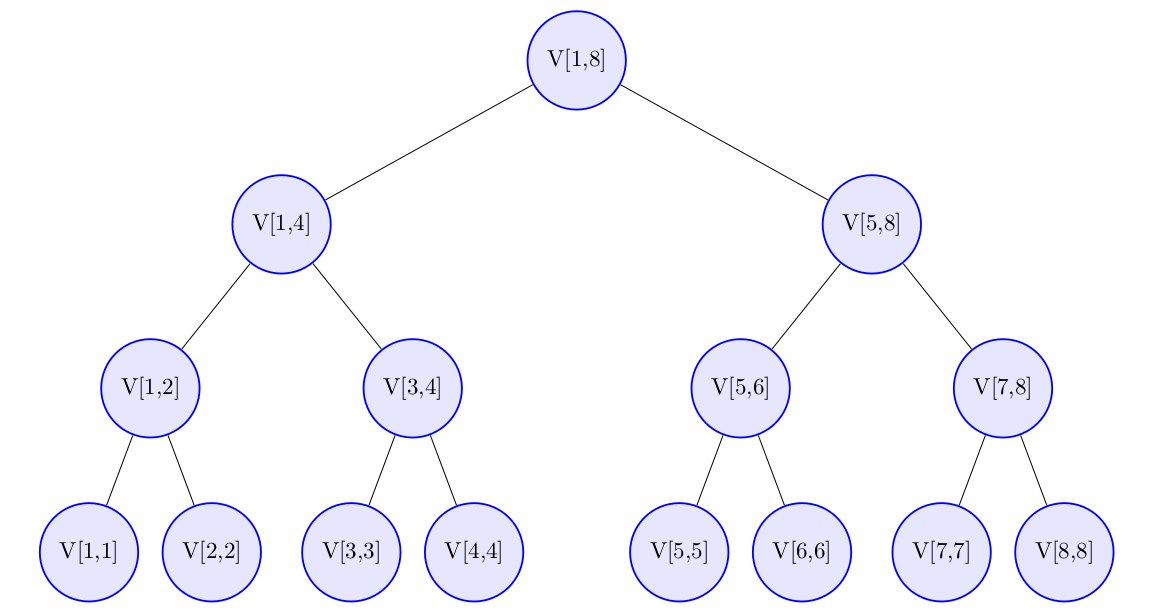
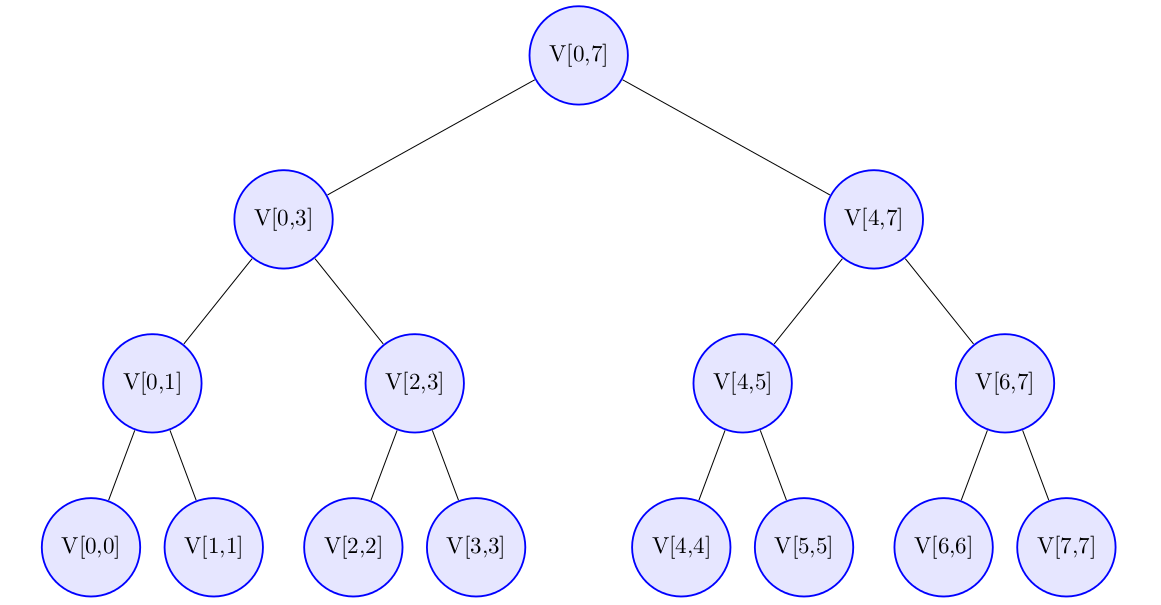
First final version

diff --git a/images/segment_trees/segment_trees.tex b/images/segment_trees/segment_trees.tex
@@ -162,77 +162,76 @@
        level 1/.style={sibling distance=90mm, level distance=2.5cm},
        level 2/.style={sibling distance=40mm, level distance=2.5cm}]
        level 3/.style={sibling distance=2mm, level distance=2.5cm}]
-\node[draw](z){V[1,8]}
+\node[draw](z){V[0,7]}
     child{ 
-        node {V[1,4]}
+        node {V[0,3]}
         child{
-            node {V[1,2]} 
+            node {V[0,1]} 
             child{
-                node [right = 3mm] {V[1,1]} }
+                node [right = 3mm] {V[0,0]} }
             child{
-                node [left = 3mm] {V[2,2]} }            
+                node [left = 3mm] {V[1,1]} }            
         }
         child{
-            node {V[3,4]} 
+            node {V[2,3]} 
             child{
-                node [right = 3mm] {V[3,3]} }
+                node [right = 3mm] {V[2,2]} }
             child{
-                node [left = 3mm] {V[4,4]} }        
+                node [left = 3mm] {V[3,3]} }        
         }
     } 
     child{ 
-        node {V[5,8]}
+        node {V[4,7]}
         child{
-            node {V[5,6]} 
-            child{ node [right = 3mm] {V[5,5]} }
-            child{ node [left = 3mm] {V[6,6]} }
+            node {V[4,5]} 
+            child{ node [right = 3mm] {V[4,4]} }
+            child{ node [left = 3mm] {V[5,5]} }
         }
         child{
-            node {V[7,8]} 
+            node {V[6,7]} 
             child{
-                node [right = 3mm] {V[7,7]} }
+                node [right = 3mm] {V[6,6]} }
             child{
-                node [left = 3mm] {V[8,8]} }
+                node [left = 3mm] {V[7,7]} }
         }
     };
 \end{tikzpicture}
 \end{figure}
-\label{fig:malware}
 
 \begin{figure}[H]
 \caption{Segment tree generado sobre el vector [3,2,8,5,6,1,7,4] representado como heap}
 \centering
 \begin{tikzpicture}
     \coordinate (s) at (0,0);
-    \node[minimum size=6mm, minimum width = 15mm, draw, rectangle] at (s) {V[1,8]};
+    \node[minimum size=6mm, minimum width = 15mm, draw, rectangle] at (s) {V[0,7]};
     \coordinate (s) at ($(s) + (0,0.5)$);
     \node[minimum size=4.5mm, minimum width = 15mm, draw, rectangle] at (s) {1};
     \coordinate (s) at ($(s) + (1.5,-0.5)$);
-    \node[minimum size=6mm, minimum width = 15mm, draw, rectangle] at (s) {V[1,4]};
+    \node[minimum size=6mm, minimum width = 15mm, draw, rectangle] at (s) {V[0,3]};
     \coordinate (s) at ($(s) + (0,0.5)$);
     \node[minimum size=4.5mm, minimum width = 15mm, draw, rectangle] at (s) {2};
     \coordinate (s) at ($(s) + (1.5,-0.5)$);
-    \node[minimum size=6mm, minimum width = 15mm, draw, rectangle] at (s) {V[4,8]};
+    \node[minimum size=6mm, minimum width = 15mm, draw, rectangle] at (s) {V[4,7]};
     \coordinate (s) at ($(s) + (0,0.5)$);
     \node[minimum size=4.5mm, minimum width = 15mm, draw, rectangle] at (s) {3};
     \coordinate (s) at ($(s) + (1.5,-0.5)$);
-    \node[minimum size=6mm, minimum width = 15mm, draw, rectangle] at (s) {V[1,2]};
+    \node[minimum size=6mm, minimum width = 15mm, draw, rectangle] at (s) {V[0,1]};
     \coordinate (s) at ($(s) + (0,0.5)$);
     \node[minimum size=4.5mm, minimum width = 15mm, draw, rectangle] at (s) {4};
     \coordinate (s) at ($(s) + (1.5,-0.5)$);
-    \node[minimum size=6mm, minimum width = 15mm, draw, rectangle] at (s) {V[3,4]};
+    \node[minimum size=6mm, minimum width = 15mm, draw, rectangle] at (s) {V[2,3]};
     \coordinate (s) at ($(s) + (0,0.5)$);
     \node[minimum size=4.5mm, minimum width = 15mm, draw, rectangle] at (s) {5};
     \coordinate (s) at ($(s) + (1.5,-0.5)$);
-    \node[minimum size=6mm, minimum width = 15mm, draw, rectangle] at (s) {V[5,6]};
+    \node[minimum size=6mm, minimum width = 15mm, draw, rectangle] at (s) {V[4,5]};
     \coordinate (s) at ($(s) + (0,0.5)$);
     \node[minimum size=4.5mm, minimum width = 15mm, draw, rectangle] at (s) {6};
     \coordinate (s) at ($(s) + (1.5,-0.5)$);
-    \node[minimum size=6mm, minimum width = 15mm, draw, rectangle] at (s) {V[7,8]};
+    \node[minimum size=6mm, minimum width = 15mm, draw, rectangle] at (s) {V[6,7]};
     \coordinate (s) at ($(s) + (0,0.5)$);
     \node[minimum size=4.5mm, minimum width = 15mm, draw, rectangle] at (s) {7};
     \coordinate (s) at ($(s) + (1.5,-0.5)$);
-    \node[minimum size=6mm, minimum width = 15mm, draw, rectangle] at (s) {V[1,1]};
+    \node[minimum size=6mm, minimum width = 15mm, draw, rectangle] at (s) {V[0,0]};
     \coordinate (s) at ($(s) + (0,0.5)$);
     \node[minimum size=4.5mm, minimum width = 15mm, draw, rectangle] at (s) {8};
     \coordinate (s) at ($(s) + (1.5,-0.5)$);
@@ -240,7 +239,7 @@
     \coordinate (s) at ($(s) + (0,0.5)$);
     \node[minimum size=4.61mm, minimum width = 15mm, draw, rectangle] at (s) {\ldots};
     \coordinate (s) at ($(s) + (1.5,-0.5)$);
-    \node[minimum size=6mm, minimum width = 15mm, draw, rectangle] at (s) {V[8,8]};
+    \node[minimum size=6mm, minimum width = 15mm, draw, rectangle] at (s) {V[7,7]};
     \coordinate (s) at ($(s) + (0,0.5)$);
     \node[minimum size=4.5mm, minimum width = 15mm, draw, rectangle] at (s) {15};
     \coordinate (s) at ($(s) + (1.5,-0.5)$);

diff --git a/_drafts/2015-8-9-segment-tree.md b/_drafts/2015-8-9-segment-tree.md
@@ -8,13 +8,13 @@ category: Estructuras de Datos
 
 Paradójicamente, en los cursos de estructuras de datos y algoritmos el número de estructuras de datos que se estudian es bastante reducido. Generalmente se introducen heaps, árboles binarios de búsqueda balanceados (AVL), tablas Hash y algunos algoritmos sobre grafos. Sin embargo, el mundo de las estructuras de datos es mucho más [amplio](https://en.wikipedia.org/wiki/List_of_data_structures) y probablemente requeriría  una asignatura de estructuras de datos avanzadas como sucede en muchas universidades. El MIT, por ejemplo, proporciona [vídeos](http://ocw.mit.edu/courses/electrical-engineering-and-computer-science/6-851-advanced-data-structures-spring-2012/lecture-videos/) con el contenido de esta asignatura. Por ello, intentaré escribir entradas en el blog que profundicen en esta temática.
 
-En este caso trataremos los **segment trees** o árboles de segmentos. Introduciremos en primer lugar un problema importante de la teoría de algoritmos, **range minimum query problem**, que servirá como motivación para los segment trees. Posteriormente se explicará el funcionamiento de estos, proporcionando para cada operación su correspondiente código en Python. Por último, se proporcionan algunos problemas resolubles mediante segment trees.
+En este caso trataremos los **segment trees** o árboles de segmentos. Introduciremos en primer lugar un problema importante de la teoría de algoritmos, **range minimum query problem**, que servirá como motivación para los segment trees. Posteriormente se explicará el funcionamiento de estos, proporcionando para cada operación su correspondiente código en Python. Por último, se proporcionan algunos problemas resolubles mediante segment trees que se dejan como ejercicio.
 
 <!--more-->
 
 ## Range Minimum Query Problem
 
-Consideremos un vector con objetos de un tipo $$T$$ sobre el que se ha definido una relación de orden total. Por claridad, ejemplificaremos el problema sobre números enteros. Sea $$n$$ la longitud del vector, se define $$RMQ(i,j)$$ como el mínimo del subvector formado por las componentes entre $$i$$ y $$j$$ (inclusive) para $$i, j$$ en $$\{1,\ldots,n\}$$ con $$i \le j$$.  El problema consiste en proporcionar el valor de $$RMQ(i,j)$$ para cualquier número posible de consultas.
+Consideremos un vector con objetos de un tipo $$T$$ sobre el que se ha definido una relación de orden total. Por claridad, ejemplificaremos el problema sobre números enteros. Sea $$n$$ la longitud del vector, se define $$RMQ(i,j)$$ como el mínimo del subvector formado por las componentes entre $$i$$ y $$j$$ (inclusive) para $$i, j$$ en $$\{0,\ldots,n-1\}$$ con $$i \le j$$.  El problema consiste en proporcionar el valor de $$RMQ(i,j)$$ para cualquier número posible de consultas.
 
 Normalmente se denomina subintervalo del vector a un subvector formado por componentes consecutivas, como los que se estudian en este caso. Una posible traducción al castellano de range minimum query sería problema de las consultas del mínimo de cualquier subintervalo (mantendremos el nombre en inglés por ser el estándar).
 
@@ -38,7 +38,7 @@ Como caso particular esta información puede ser el mínimo del subintervalo, en
 
 Supongamos por el momento que el vector tiene longitud $$n = 2^m$$.
 
-La idea subyacente consiste en almacenar la información necesaria para los subintervalos del tipo $$V[k2^l+1, (k+1)2^l]$$ donde $$l$$ pertenece a $$\{0, 1, \ldots, \log_2 n\}$$ y $$k$$ pertenece a $$\{0, 1, \ldots, \frac{n}{2^l}-1\}$$. Esto es, dividiremos el vector en subintervalos consecutivos cuya longitud sea una potencia de $$2$$ y preprocesaremos estos. La información de estos intervalos se almacenará en un árbol binario. Posteriormente para un subintervalo $$V[i, j]$$ podemos expresarlo como la unión de subintervalos consecutivos como los ya preprocesados. Por ejemplo, para $$V = [3,2,8,5,6,1,7,4]$$ se tiene:
+La idea subyacente consiste en almacenar la información necesaria para los subintervalos del tipo $$V[k2^l, (k+1)2^l-1]$$ donde $$l$$ pertenece a $$\{0, 1, \ldots, \log_2 n\}$$ y $$k$$ pertenece a $$\{0, 1, \ldots, \frac{n}{2^l}-1\}$$. Esto es, dividiremos el vector en subintervalos consecutivos cuya longitud sea una potencia de $$2$$ y preprocesaremos estos. La información de estos intervalos se almacenará en un árbol binario. Posteriormente para un subintervalo $$V[i, j]$$ podremos expresarlo como la unión de subintervalos consecutivos como los ya preprocesados. Por ejemplo, para $$V = [3,2,8,5,6,1,7,4]$$ se tiene:
 
 $$ V[2,7] = V[2,2] \cup V[3,4] \cup V[5,6] \cup V[7,7] $$
 
@@ -48,7 +48,7 @@ $$ \min(V[2,7]) = \min\{\min(V[2,2]), \min(V[3,4]), \min(V[5,6]), \min(V[7,7])\}
 
 ### Nodos del segment tree
 
-La información relativa a los subintervalos del tipo $$V[k2^l+1, (k+1)2^l]$$ debe almacenarse en un nodo. Los subintervalos $$V[i,i]$$ son los casos base y sus nodos formarán las hojas del segment tree. Los nodos deben mantener 3 operaciones: 
+La información relativa a los subintervalos del tipo $$V[k2^l, (k+1)2^l-1]$$ debe almacenarse en un nodo. Los subintervalos $$V[i,i]$$ son los casos base y sus nodos formarán las hojas del segment tree. Los nodos deben mantener 3 operaciones: 
 
 1. Asignar la información correspondiente al nodo en el caso de que este sea una hoja del árbol.
 2. Generar la información del nodo a partir de dos nodos cuyos subintervalos sean una partición del subintervalo actual. Esta operación se denomina `merge`.
@@ -69,12 +69,12 @@ class SegmentTreeNode(object):
     # Given the value of an array element,
     # build the information for this leaf.
     def assignLeaf(self, value):
-        # Insert the code to build the leaf information
+        pass # Insert the code to build the leaf information
             
     # Merge the information of left and right
     # children to form the parent node information.
     def merge(self, left, right):
-        # Insert the merge code
+        pass # Insert the merge code
 
     # Return the information contained in this node.
     def getInfo(self):
@@ -150,12 +150,12 @@ class SegmentTree(object):
     # array : Array from which the segment tree is built.
     # Node : Class that will be used as a segment tree node. 
     #   It obtains the desired information from the array.
-    def __init__(self, array, SegmentTreeNode):
+    def __init__(self, array, Node):
         self.SegmentTreeNode =  Node
         # Segment tree size (number of nodes)
         self.size = SegmentTree._getSegmentTreeSize(len(array))
         # Heap with the nodes
-        self.nodes = [self.SegmentTreeNode() for i in range(0,self.size+1)]
+        self.nodes = [self.SegmentTreeNode() for i in range(0,self.size)]
         self.array = array
         # The tree is built
         self._buildTree(array, 1, 0, len(array)-1)
@@ -179,34 +179,34 @@ El siguiente código realiza la operación descrita:
 
 ~~~python
     # Get recursively a SegmentTreeNode with the information associated with the range [lo, hi].
-    # stIndex : Current Segment Tree Node. It is responsible of [left, right] range.
-    def _getValue(self, stIndex, left, right, lo, hi):
+    # st_index : Current Segment Tree Node. It is responsible of [left, right] range.
+    def _getInfo(self, st_index, left, right, lo, hi):
         # Check if the range is the current node in the tree.
         # In that case return it.
         if left == lo and right == hi:
-            return self.nodes[stIndex]
+            return self.nodes[st_index]
 
         # Look for the range in the children of the current node
         # if it could be just there.
         mid = (left + right) // 2
         if lo > mid:
-            return self._getValue(2*stIndex+1, mid+1, right, lo, hi)
+            return self._getInfo(2*st_index+1, mid+1, right, lo, hi)
         if hi <= mid:
-            return self._getValue(2*stIndex, left, mid, lo, hi)
+            return self._getInfo(2*st_index, left, mid, lo, hi)
 
         # If we keep executing the method then the range is divided between 
         # the left child and the right child of the current node. Let's get 
         # each part of the range and merge it.           
-        leftResult = self._getValue(2*stIndex, left, mid, lo, mid);
-        rightResult = self._getValue(2*stIndex+1, mid+1, right, mid+1, hi);
+        left_result = self._getInfo(2*st_index, left, mid, lo, mid);
+        right_result = self._getInfo(2*st_index+1, mid+1, right, mid+1, hi);
         result = self.SegmentTreeNode()
-        result.merge(leftResult, rightResult)
+        result.merge(left_result, right_result)
         return result
 
     # Get the value associated with the range [lo, hi]
-    def getValue(self, lo, hi):
-        result = self._getValue(1, 0, len(self.array)-1, lo, hi)
-        return result.getValue() 
+    def getInfo(self, lo, hi):
+        result = self._getInfo(1, 0, len(self.array)-1, lo, hi)
+        return result.getInfo() 
 ~~~
 
 Es claro que si el subintervalo es precisamente uno de los que se tienen almacenados en el árbol entonces el tiempo de la consulta es $$O(\log n)$$. ¿Qué sucede en cualquier otro caso?
@@ -223,51 +223,56 @@ Buscamos la información del subintervalo $$V[i,j]$$. Podemos observar que de un
 En efecto, esto se prueba por inducción sobre el nivel del árbol en el que nos encontremos:
 
 - Para la raíz (nivel 1) esto es evidente pues el algoritmo, en el peor de los casos, prosigue con los dos hijos. 
-- Supongamoslo cierta la afirmación para el nivel $$t < \log_2 n$$ y veamos que se cumple para $$t+1$$. Por la hipótesis de inducción, la búsqueda se mantiene a lo sumo en dos nodos. Si no hubiese nodos activos hemos terminado. Si por el contrario solo hubiese un nodo activo el resultado también es evidente (el nodo activo se divide como mucho en dos). Por último, si hay dos nodos activos verificando la hipótesis de inducción se tiene que $$i < j$$ (los nodos tienen subintervalos disjuntos). Cada uno de los nodos activos puede dividir la búsqueda como mucho sobre sus dos hijos. Para el nodo izquierda (el que contiene la componente $$i$$) se tienen las siguientes opciones:
+- Supongamos cierta la afirmación para el nivel $$t < \log_2 n$$ y veamos que se cumple para $$t+1$$. Por la hipótesis de inducción, la búsqueda se mantiene a lo sumo en dos nodos. Si no hubiese nodos activos hemos terminado. Si por el contrario solo hubiese un nodo activo el resultado también es evidente (el nodo activo se divide como mucho en dos). Por último, si hay dos nodos activos verificando la hipótesis de inducción se tiene que $$i < j$$ (los nodos tienen subintervalos disjuntos). Cada uno de los nodos activos puede dividir la búsqueda como mucho sobre sus dos hijos. Para el nodo izquierda (el que contiene la componente $$i$$) se tienen las siguientes opciones:
     + El subintervalo del nodo está contenido en $$V[i,j]$$ en cuyo caso para la búsqueda en esa rama.
     + El subintervalo que buscamos está contenido en el hijo derecha (tiene intersección vacía con el hijo izquierda). En tal caso se añade ese nodo a la búsqueda.
     + El subintervalo que buscamos tiene intersección no vacía con el hijo izquierda. Entonces, este hijo se añade a la búsqueda. El subintervalo del hijo derecha está contenido en $$V[i,j]$$ (está acotado por $$i$$ y por $$j$$). Por tanto, no hay que continuar la búsqueda con el hijo derecha. Cuando finalice la búsqueda en el hijo izquierda se realizará un `merge` entre la información de ambos hijos.
+
 En cualquier caso, se añade a lo sumo un hijo a la búsqueda. Lo mismo sucede con el nodo que contiene a $$j$$, verificándose, por tanto, la afirmación.
 
-Como consecuencia de esta afirmación el número de nodos que se visitan está acotado por $$4 \log n$$ . A cada nodo visitado le corresponde como mucho una operacón de `merge`. Por tanto, la consulta es $$O(m(n)\log n)$$.
+Como consecuencia de esta afirmación, el número de nodos que se visitan está acotado por $$4 \log n$$ . A cada nodo visitado le corresponde como mucho una operación de `merge`. Por tanto, la consulta es $$O(m(n)\log n)$$.
 
 $$\tag*{$\blacksquare$}$$
 
-Nótese que para $$V[2,n-1]$$ con $$n$$ potencia de $$2$$ se realizan precisamente $$\Omega(m(n)\log n)$$ operaciones, luego la cota dada para la eficiencia del algoritmo es la mejor posible. Como pronosticábamos, si el `merge` es constante entonces la consulta es logarítmica.
+Nótese que para $$V[1,n-2]$$ con $$n$$ potencia de $$2$$ se realizan precisamente $$\Omega(m(n)\log n)$$ operaciones, luego la cota dada para la eficiencia del algoritmo es la mejor posible. Como pronosticábamos, si el `merge` es constante entonces la consulta es logarítmica.
 
 ### Operación 2: Actualización de una componente del vector
 
-Con la operación anterior ya habríamos resuelto la versión básica del range minimum query. Veamos que también podemos actualizar componentes del vector con eficiencia X.
+Con la operación anterior ya habríamos resuelto la versión básica del range minimum query. Veamos que también podemos actualizar componentes del vector eficientemente y de forma sencilla.
+
+En primer lugar, habría que actualizar la hoja correspondiente a la componente del vector. Después hay que arreglar los desperfectos que esto haya podido causar a sus antecesores. Para ello habrá que recorrer el camino que une la hoja con la raíz.
+
+La implementación más sencilla de este proceso es recursiva. Realizamos una búsqueda en profundidad desde la raíz hasta la hoja correspondiente que actualizaremos mediante la operación `assignLeaf`. Posteriormente, se irán actualizando los antecesores en orden mediante operaciones `merge` de sus hijos, que ya están actualizados.
 
 El siguiente código realiza la operación descrita:
 
-~~~Python
+~~~python
     # Update the segment tree. 
-    # The given value is assigned to the array's component at index place. T
-    # he segment tree is updated accordingly in a recursive way. 
-    # stIndex : Current segment tree node's index.
+    # The given value is assigned to the array's component at index place.
+    # The segment tree is updated accordingly in a recursive way. 
+    # st_index : Current segment tree node index.
     # lo and hi : The current range is [lo, hi]
-    # index : Array's componen to be updated.
+    # index : Array's component to be updated.
     # value : New value for the array's component to update.
-    def _update(self, stIndex, lo, hi, index, value):
-        # If current node is a leaf we have ended the search and assign 
-        # the value to the leaf.
+    def _update(self, st_index, lo, hi, index, value):
+        # If current node is a leaf we have ended the search.
+        # The value information is assigned to the leaf.
         if lo == hi:
-            self.nodes[stIndex].assignLeaf(value)
-        # If the current node is not a leaf, the search is continued recursively
-        # and the current node statictics are updated afterwards.
+            self.nodes[st_index].assignLeaf(value)
+
+        # If the current node is not a leaf, the search continues recursively
+        # and the current node information is updated afterwards.
         else:
-            left = 2 * stIndex
+            left = 2 * st_index
             right = left + 1
             mid = (lo + hi) // 2
-
-            # Continue the search by the right path
+            # Continue the search by the correct path
             if index <= mid:
                 self._update(left, lo, mid, index, value)
             else:
                 self._update(right, mid+1, hi, index, value)
-            # Update current node statictics
-            self.nodes[stIndex].merge(self.nodes[left], self.nodes[right])
+            # Update current node information
+            self.nodes[st_index].merge(self.nodes[left], self.nodes[right])
 
     # Update the segment tree. 
     # The given value is assigned to the array's
@@ -279,12 +284,49 @@ El siguiente código realiza la operación descrita:
         self.array[index] = value
 ~~~
 
+La eficiencia es claramente $$\theta(m(n) \log n + a(n)$$. 
+
+Una mejor implementación es una versión iterativa del proceso. Comenzamos en la hoja y recorremos el camino desde esta a la raíz usando el siguiente hecho:
+
+$$ IndicePadre(nodo) = nodo / 2 $$
+
+Si en determinado momento la información de un nodo a actualizar no cambia con el `merge` se finaliza algoritmo. Sin embargo, aunque podamos terminar la ejecución antes, la eficiencia en el peor caso sigue siendo $$\theta(m(n) \log n + a(n)$$. Se necesitaría un nuevo método `isSameInfo` que nos indique si la información que se le pasa por argumento es la misma que la contenida por el nodo. Suponemos, además, que este método es $$O(m(n))$$. El siguiente código contiene esta nueva implementación:
+
+~~~python
+    # Update the segment tree. 
+    # The given value is assigned to the array's
+    # component at index place. The segment tree is updated accordingly. 
+    # index : Array's component to be updated.
+    # value : New value for the array's component to update.
+    def update2(self, index, value):
+        st_index = self.size // 2 + index # Leaf index
+        # Update leaf and array
+        self.array[index] = value
+        self.nodes[st_index].assignLeaf(value) 
+        # Update leaf ancestors
+        st_index = st_index // 2
+        while st_index > 0:
+            # Get current info and update it with a merge from the children
+            current_info = self.nodes[st_index]
+            self.nodes[st_index].merge(self.nodes[2*st_index], self.nodes[2*st_index+1])
+            # If the info has not changed then the algorithm ends
+            if self.nodes[st_index].isSameInfo(current_info):
+                break
+            # Go to node's parent
+            st_index = st_index // 2
+~~~
+
+
 ## Problemas 
 
-Los siguientes problemas sirven como ejemplo de aplicación de los segment tree:
+Los siguientes problemas sirven como ejemplo de aplicación de los segment trees:
 
 - [Hackerrank - Minimum Product Subinterval](https://www.hackerrank.com/contests/indeed-prime-challenge/challenges/minimum-product-sub-interval)
 - [Hackerrank - Almost Equal](https://www.hackerrank.com/challenges/almost-equal-advanced)
+
+## Código
+
+Todo el código proporcionado se encuentra en un único [archivo](https://github.com/andreshp/Algorithms/tree/master/DataStructures/SegmentTree).
 
 ## Referencias
 
